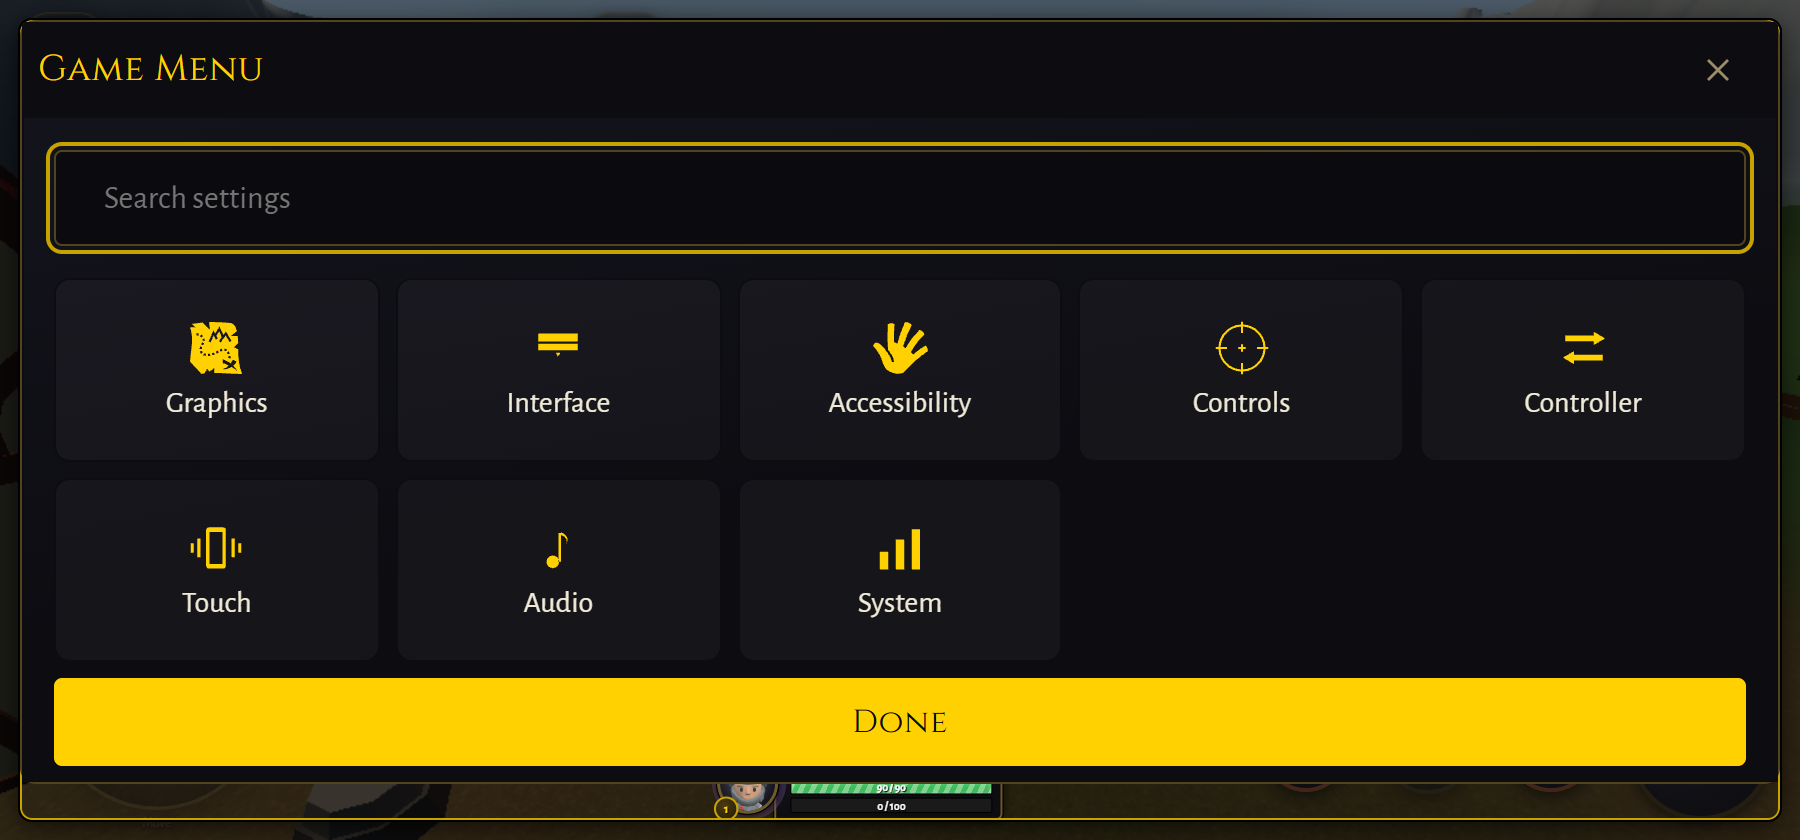
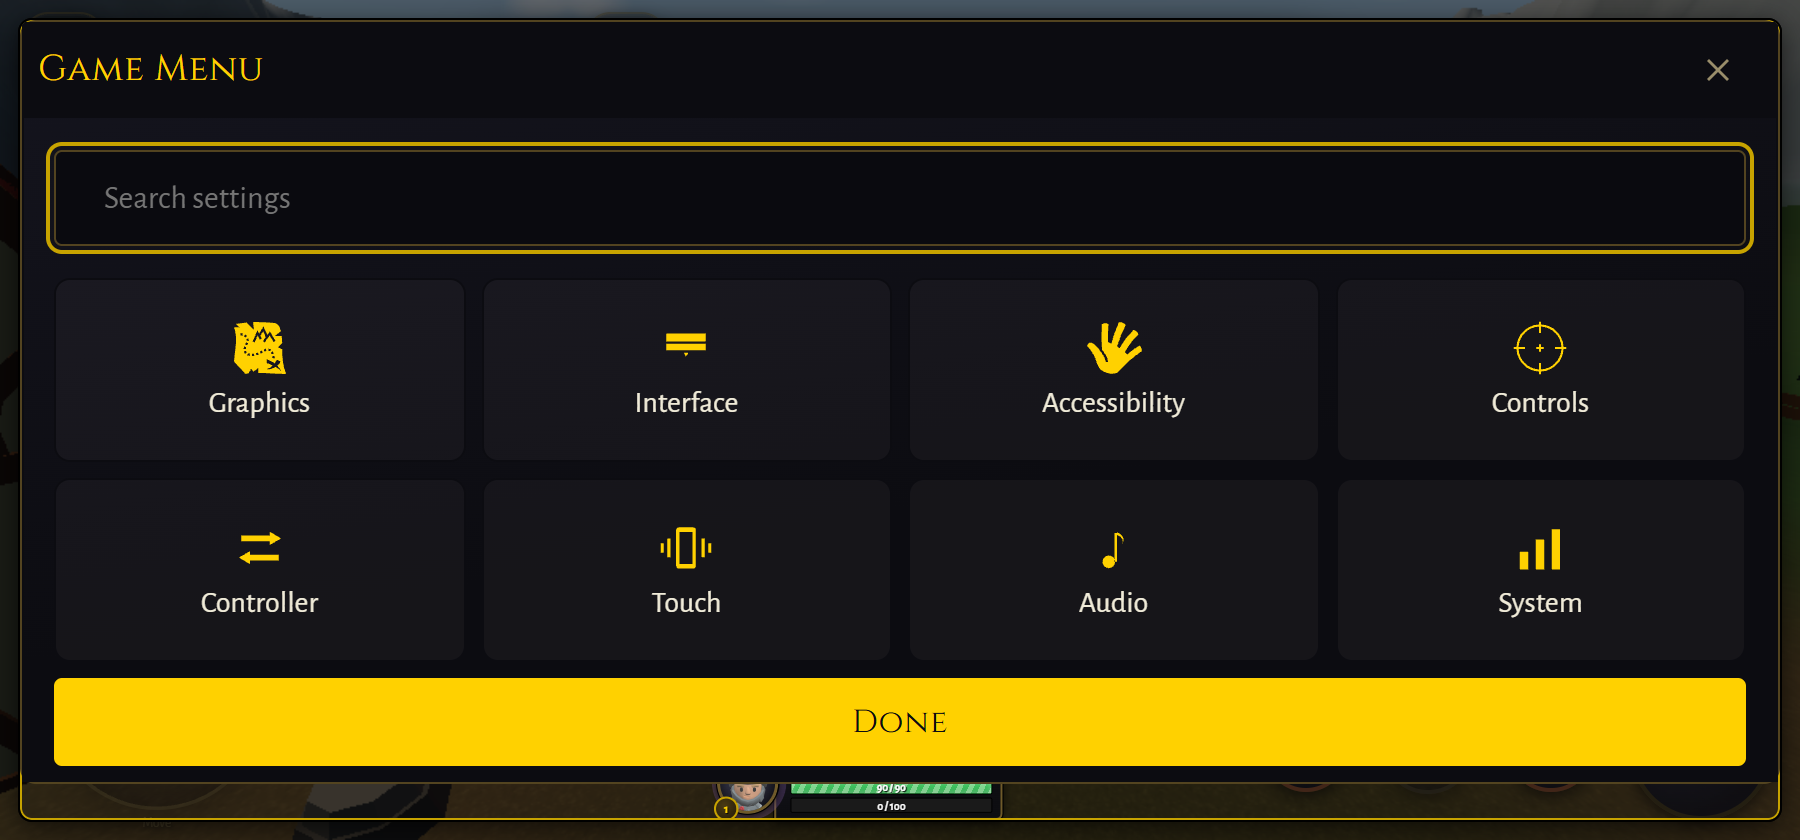
fix(ui): frame stays opaque under frosted panels; settings grid locks to 4 + 4
The frosted-panels exception dropped the frame's solid base back to
transparent, so players with that setting persisted still saw the world leak
through tall windows: the opaque base is now unconditional (frosted keeps its
blur on the non-frame chrome, where translucency is intentional). The settings
front page also locks to four columns so the eight category tiles read as a
balanced 4 + 4 instead of auto-fill's 5 + 3.

diff --git a/src/styles/components.css b/src/styles/components.css
@@ -9003,20 +9003,17 @@
        empty area of a window resized taller than its content (live feedback: the
        menu bottoms read as see-through). The gradient stays the visible surface
        (subtle vertical shading) but now sits on an opaque --panel-base, so nothing
-       shows through. Frosted-panels mode drops this base back to transparent below
-       so its backdrop blur still reads. */
+       shows through. UNCONDITIONAL: no mode may thin a framed window (an earlier
+       frosted-panels exception dropped this base to transparent and the leak came
+       straight back for players with that setting persisted on). Frosted panels
+       keeps its backdrop blur on the non-frame chrome (chat, legacy .panel),
+       where translucency is intentional. */
     background-color: var(--panel-base);
     background-image: var(--panel-l1-bg);
     border: 1px solid var(--window-border);
     box-shadow: inset 0 0 0 1px var(--panel-edge);
     border-radius: var(--radius-md);
     color: var(--color-text-light);
-  }
-  /* Frosted panels (opt-in): the blur lives on the .window root; let it read by
-     dropping the frame's opaque base back to transparent so the ~0.95 gradient
-     over the blurred backdrop is the frosted-glass surface (its prior look). */
-  body.frosted-panels .window-frame {
-    background-color: transparent;
   }
   /* The resize grip is now ONE ::after pseudo on the .window root (layout.css),
      drawn above the frame body and any sticky footer, so a framed window needs no

diff --git a/src/styles/hud.mobile.css b/src/styles/hud.mobile.css
@@ -4636,7 +4636,9 @@
      Each tile is the tap target that pushes its category page. */
   .opt-mshell-grid {
     display: grid;
-    grid-template-columns: repeat(auto-fill, minmax(150px, 1fr));
+    /* Fixed 4 columns so the eight category tiles read as a balanced 4 + 4
+       (auto-fill packed them 5 + 3 on a 900px landscape phone). */
+    grid-template-columns: repeat(4, minmax(0, 1fr));
     gap: var(--spacing-sm);
     margin-top: var(--spacing-sm);
   }